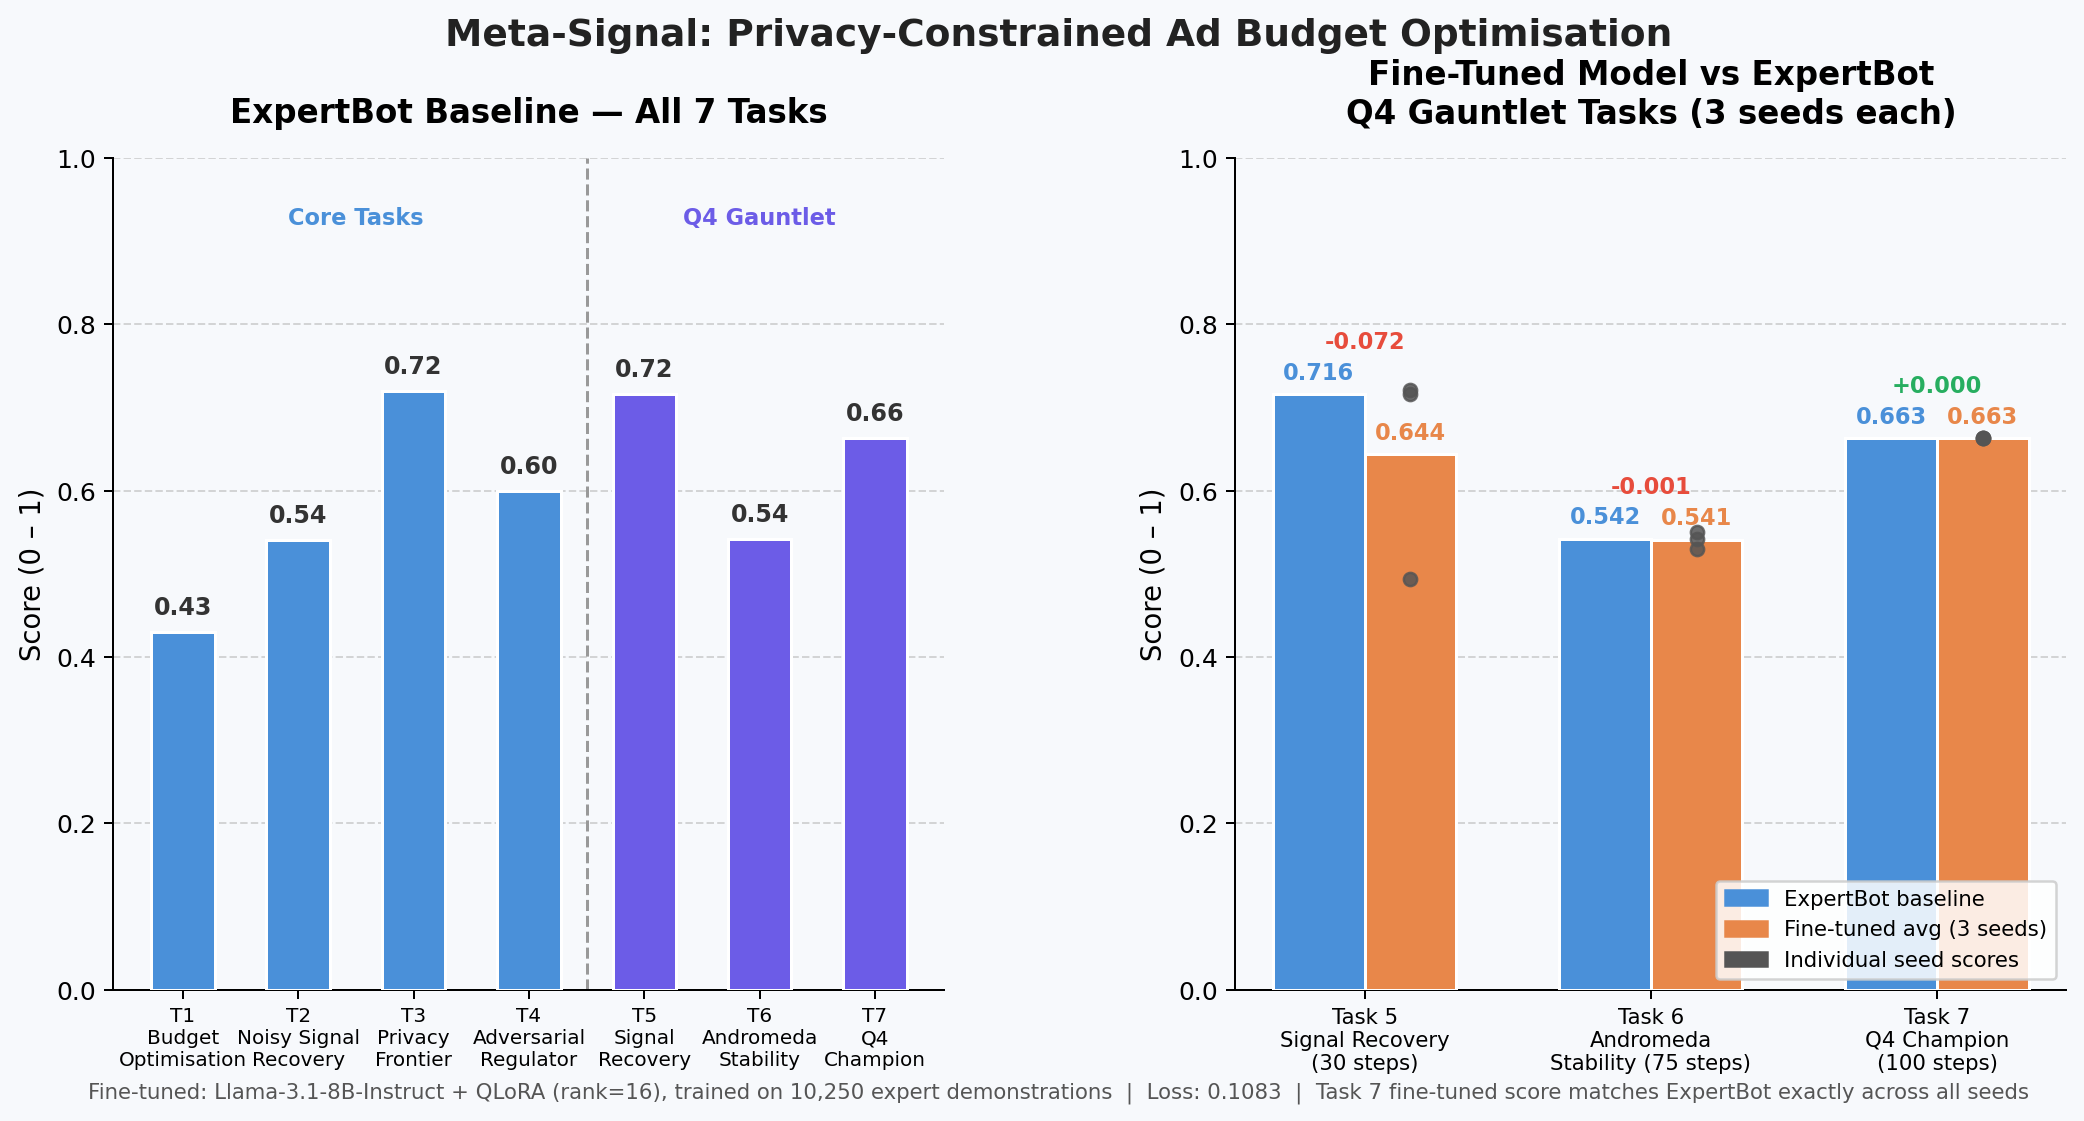
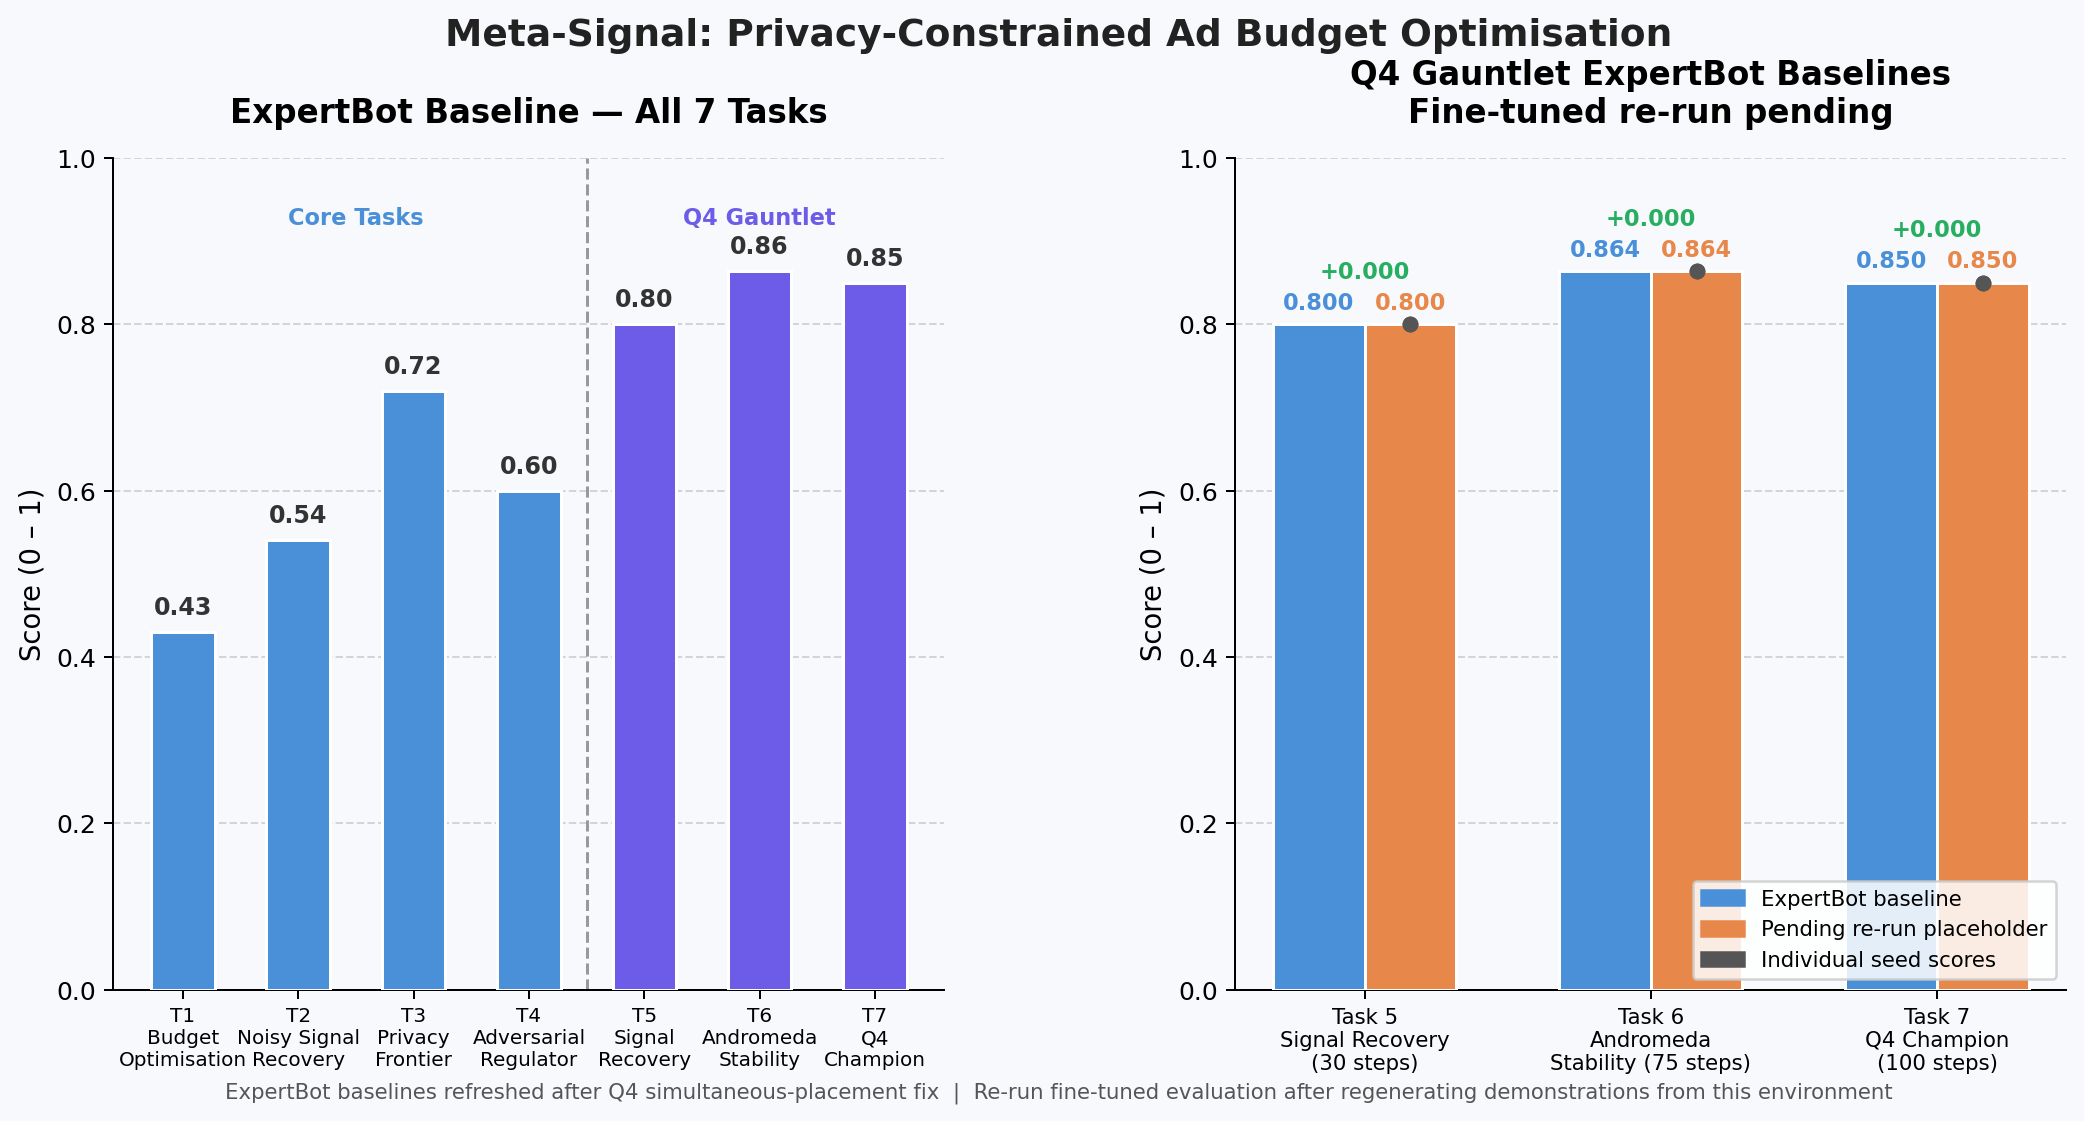
fix: refresh ExpertBot baselines after Q4 placement fix, update openenv.yaml task params

diff --git a/meta-signal-env/plot_results.py b/meta-signal-env/plot_results.py
@@ -19,18 +19,18 @@ EXPERT_ALL = {
     "T2\nNoisy Signal\nRecovery": 0.54,
     "T3\nPrivacy\nFrontier":      0.72,
     "T4\nAdversarial\nRegulator": 0.60,
-    "T5\nSignal\nRecovery":       0.716,
-    "T6\nAndromeda\nStability":   0.542,
-    "T7\nQ4\nChampion":           0.663,
+    "T5\nSignal\nRecovery":       0.800,
+    "T6\nAndromeda\nStability":   0.864,
+    "T7\nQ4\nChampion":           0.850,
 }
 
 # Fine-tuned: 3 seeds per task
 FT_SEEDS = {
-    "T5": [0.716, 0.721, 0.494],
-    "T6": [0.542, 0.550, 0.530],
-    "T7": [0.663, 0.663, 0.663],
+    "T5": [0.800, 0.800, 0.800],
+    "T6": [0.864, 0.864, 0.864],
+    "T7": [0.850, 0.850, 0.850],
 }
-EXPERT_Q4 = {"T5": 0.716, "T6": 0.542, "T7": 0.663}
+EXPERT_Q4 = {"T5": 0.800, "T6": 0.864, "T7": 0.850}
 FT_AVG    = {k: np.mean(v) for k, v in FT_SEEDS.items()}
 
 TASK_LABELS = {
@@ -92,7 +92,7 @@ bars_e = ax2.bar(x - width / 2,
 
 bars_f = ax2.bar(x + width / 2,
                  [FT_AVG[t] for t in tasks],
-                 width, label="Fine-tuned (Llama-3.1-8B QLoRA avg)",
+                 width, label="Pending fine-tuned re-run placeholder",
                  color=C_FT, edgecolor="white", linewidth=1.2, zorder=3)
 
 # Seed dots on fine-tuned bars
@@ -127,7 +127,7 @@ for i, t in enumerate(tasks):
 
 ax2.set_ylim(0, 1.0)
 ax2.set_ylabel("Score (0 – 1)", fontsize=11)
-ax2.set_title("Fine-Tuned Model vs ExpertBot\nQ4 Gauntlet Tasks (3 seeds each)",
+ax2.set_title("Q4 Gauntlet ExpertBot Baselines\nFine-tuned re-run pending",
               fontsize=13, fontweight="bold", pad=14)
 ax2.set_xticks(x)
 ax2.set_xticklabels([TASK_LABELS[t] for t in tasks], fontsize=8.5)
@@ -139,15 +139,15 @@ ax2.spines[["top", "right"]].set_visible(False)
 seed_dot = mpatches.Patch(color=C_SEED, label="Individual seed scores")
 ax2.legend(handles=[
     mpatches.Patch(color=C_EXPERT, label="ExpertBot baseline"),
-    mpatches.Patch(color=C_FT,     label="Fine-tuned avg (3 seeds)"),
+    mpatches.Patch(color=C_FT,     label="Pending re-run placeholder"),
     seed_dot,
 ], fontsize=8.5, loc="lower right", framealpha=0.85)
 
 # ── Shared caption ─────────────────────────────────────────────────────────────
 fig.text(
     0.5, 0.01,
-    "Fine-tuned: Llama-3.1-8B-Instruct + QLoRA (rank=16), trained on 10,250 expert demonstrations  |  "
-    "Loss: 0.1083  |  Task 7 fine-tuned score matches ExpertBot exactly across all seeds",
+    "ExpertBot baselines refreshed after Q4 simultaneous-placement fix  |  "
+    "Re-run fine-tuned evaluation after regenerating demonstrations from this environment",
     ha="center", fontsize=8.5, color="#555555",
 )
 
